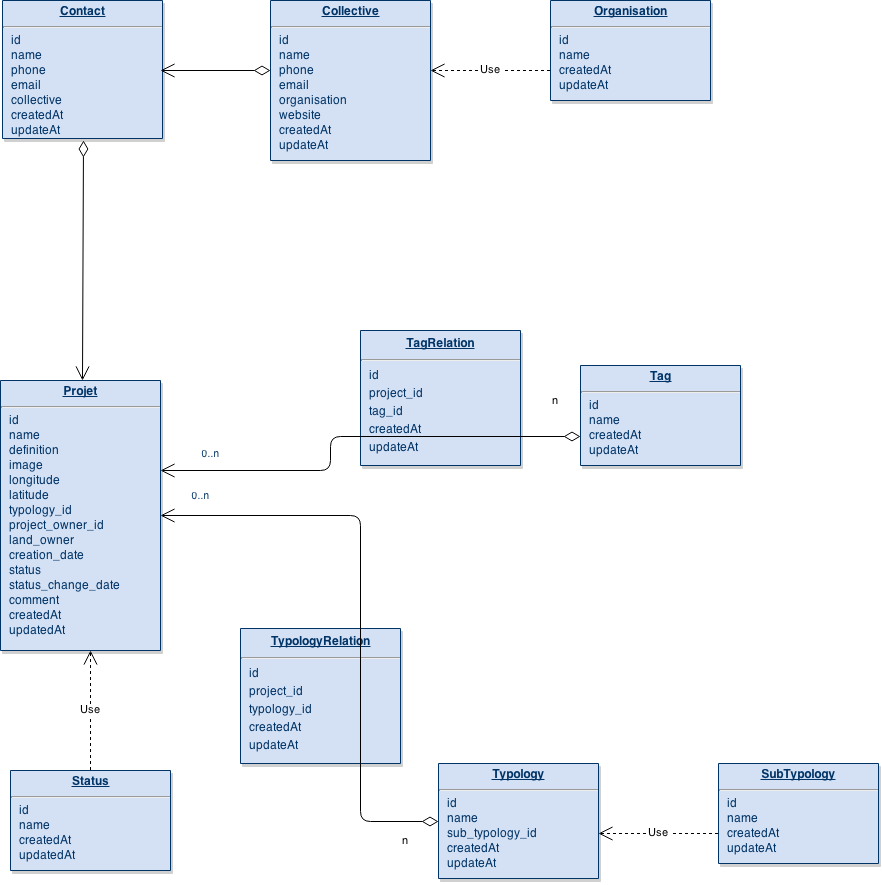
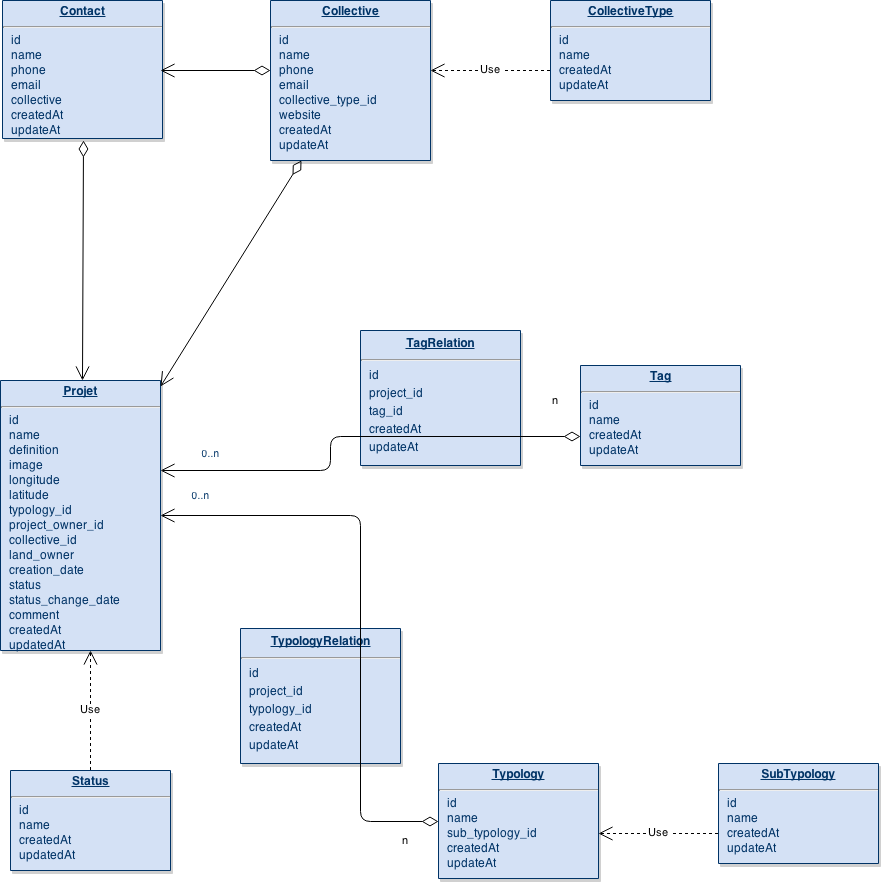
Add CollectiveType model

Changed region(s): [[0.0, 0.6102, 0.1224, 0.7322], [0.3061, 0.0915, 0.4286, 0.122], [0.6735, 0.0, 0.7653, 0.0305]]

diff --git a/db/schema.rb b/db/schema.rb
@@ -11,7 +11,15 @@
 #
 # It's strongly recommended that you check this file into your version control system.
 
-ActiveRecord::Schema.define(version: 20150321160944) do
+ActiveRecord::Schema.define(version: 20150321161534) do
+
+  create_table "collective_types", force: :cascade do |t|
+    t.string   "name"
+    t.datetime "created_at", null: false
+    t.datetime "updated_at", null: false
+  end
+
+  add_index "collective_types", ["name"], name: "index_collective_types_on_name", unique: true
 
   create_table "statuses", force: :cascade do |t|
     t.string   "name"

diff --git a/test/models/collective_type_test.rb b/test/models/collective_type_test.rb
@@ -1,0 +1,21 @@
+require 'test_helper'
+
+class CollectiveTypeTest < ActiveSupport::TestCase
+  def setup
+    @type = CollectiveType.new(name:"Test")
+  end
+
+  test "should be valid" do
+    assert @type.valid?
+  end
+
+  test "name should be present" do
+    @type.name = "     "
+    assert_not @type.valid?
+  end
+
+  test "name should not be too long" do
+    @type.name = "a" * 251
+    assert_not @type.valid?
+  end
+end

diff --git a/db/migrate/20150321161534_create_collective_types.rb b/db/migrate/20150321161534_create_collective_types.rb
@@ -1,0 +1,10 @@
+class CreateCollectiveTypes < ActiveRecord::Migration
+  def change
+    create_table :collective_types do |t|
+      t.string :name
+
+      t.timestamps null: false
+    end
+    add_index :collective_types, :name, :unique => true
+  end
+end

diff --git a/app/models/collective_type.rb b/app/models/collective_type.rb
@@ -1,0 +1,3 @@
+class CollectiveType < ActiveRecord::Base
+  validates :name, presence: true, length: { maximum: 250 }
+end
